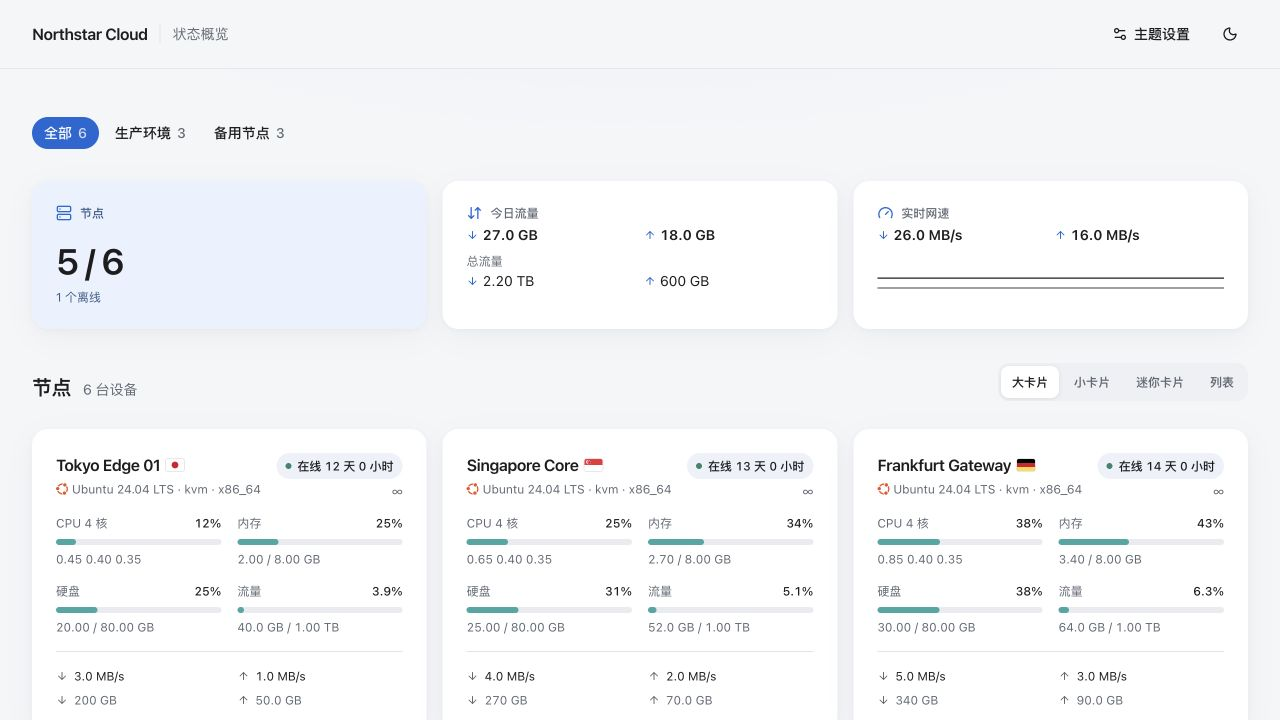
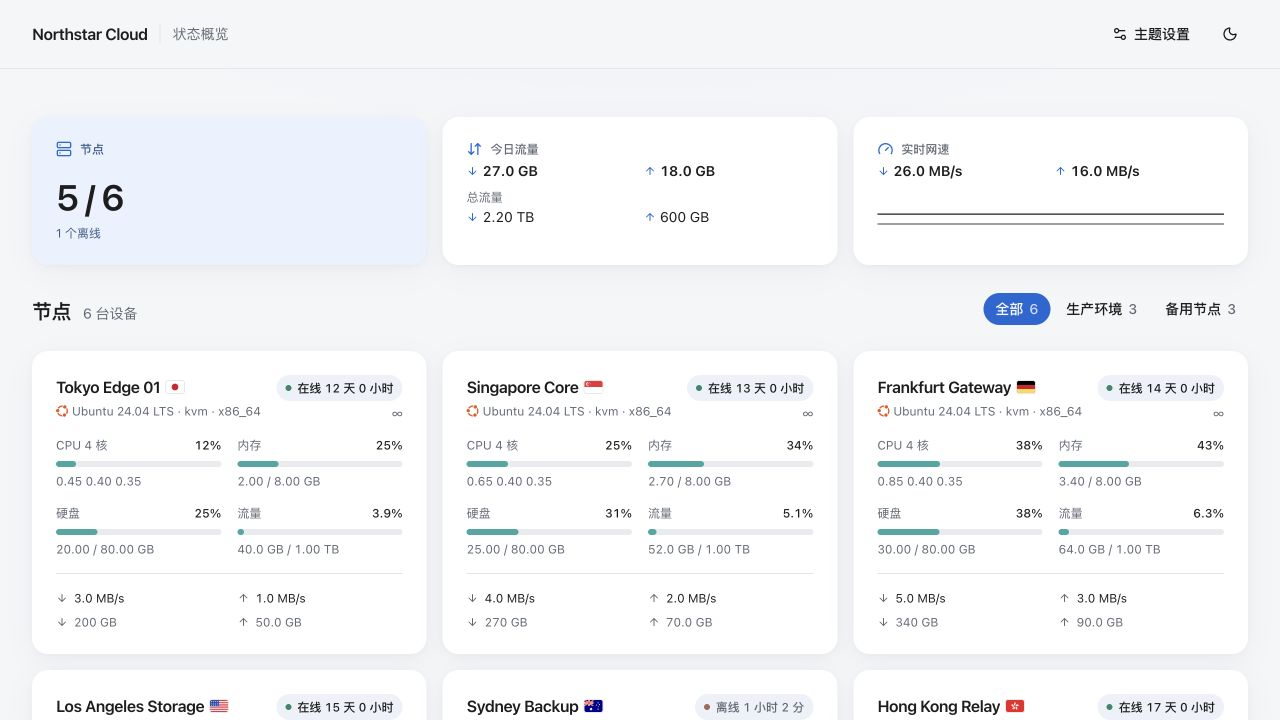
Move node view selection into theme settings

diff --git a/src/App.tsx b/src/App.tsx
@@ -8,16 +8,9 @@ import { ThemeSettings } from "@/components/ThemeSettings"
 import { Button } from "@/components/ui/button"
 import { Skeleton } from "@/components/ui/skeleton"
 import { api, groupsOf, useNodes, type Node } from "@/lib/api"
-import { DEFAULT_CONFIG, isViewMode, loadConfig, type ThemeConfig, type ViewMode } from "@/lib/config"
+import { DEFAULT_CONFIG, loadConfig, type ThemeConfig, type ViewMode } from "@/lib/config"
 
 type Me = { authed: boolean; github: boolean; site_name: string; public_page: boolean }
-const LOCAL_VIEW_KEY = "clarity-node-view"
-const VIEW_OPTIONS: { mode: ViewMode; label: string }[] = [
-  { mode: "large", label: "大卡片" },
-  { mode: "compact", label: "小卡片" },
-  { mode: "mini", label: "迷你卡片" },
-  { mode: "list", label: "列表" },
-]
 
 // Split out because recharts is most of this bundle and the list page draws no
 // chart. The landing page is 242 kB rather than 629 kB (77 kB gzipped against
@@ -97,22 +90,10 @@ export default function App() {
   // The list's group tab, held here so it survives a visit to a node's page.
   const [group, setGroup] = useState<string | null>(null)
   const [siteConfig, setSiteConfig] = useState<ThemeConfig>(DEFAULT_CONFIG)
-  const [localView, setLocalView] = useState<ViewMode | null>(() => {
-    const stored = localStorage.getItem(LOCAL_VIEW_KEY)
-    return isViewMode(stored) ? stored : null
-  })
   const [settingsOpen, setSettingsOpen] = useState(false)
-  const viewMode = localView ?? siteConfig.card_mode
-
-  function changeView(mode: ViewMode) {
-    localStorage.setItem(LOCAL_VIEW_KEY, mode)
-    setLocalView(mode)
-  }
 
   function applySettings(next: ThemeConfig) {
     setSiteConfig(next)
-    localStorage.removeItem(LOCAL_VIEW_KEY)
-    setLocalView(null)
     setSettingsOpen(false)
   }
 
@@ -220,7 +201,7 @@ export default function App() {
             ))}
           </div>
         ) : (
-          <NodeList nodes={sorted} group={group} onGroup={setGroup} onOpen={go} mode={viewMode} onModeChange={changeView} showSummary={siteConfig.show_summary} />
+          <NodeList nodes={sorted} group={group} onGroup={setGroup} onOpen={go} mode={siteConfig.card_mode} showSummary={siteConfig.show_summary} />
         )}
       </main>
       {settingsOpen && me.authed && <ThemeSettings config={siteConfig} onClose={() => setSettingsOpen(false)} onSaved={applySettings} />}
@@ -228,16 +209,14 @@ export default function App() {
   )
 }
 
-// Group tabs appear only once the operator has grouped something, so a hub
-// without groups keeps the page it always had. The summary follows the tab.
-function NodeList({ nodes, group, onGroup, onOpen, mode, onModeChange, showSummary }: {
+// Group tabs sit beside the node heading, while the summary follows the selection.
+function NodeList({ nodes, group, onGroup, onOpen, mode, showSummary }: {
   nodes: Node[]
   /** null is every node, "" the ungrouped. */
   group: string | null
   onGroup: (group: string | null) => void
   onOpen: (id: number) => void
   mode: ViewMode
-  onModeChange: (mode: ViewMode) => void
   showSummary: boolean
 }) {
   const groups = groupsOf(nodes)
@@ -257,52 +236,47 @@ function NodeList({ nodes, group, onGroup, onOpen, mode, onModeChange, showSumma
   ]
   return (
     <>
-      {groups.length > 0 && (
-        <div role="group" aria-label="分组" className="group-tabs -mx-1 flex gap-1 overflow-x-auto px-1 pb-1">
-          {tabs.map(([value, label, count]) => (
-            <Button
-              // Group names are free text, so they carry a prefix no key of
-              // the 全部 tab can share.
-              key={value === null ? "*" : `=${value}`}
-              aria-pressed={current === value}
-              size="sm"
-              variant={current === value ? "secondary" : "ghost"}
-              className="shrink-0"
-              onClick={() => onGroup(value)}
-            >
-              {label}
-              <span className="tnum text-muted-foreground">{count}</span>
-            </Button>
-          ))}
-        </div>
-      )}
       {showSummary && <Summary nodes={shown} group={current} />}
-      <div className="section-heading flex flex-wrap items-end justify-between gap-4">
-        <div className="flex items-baseline gap-3">
-          <h1 className="text-xl font-semibold tracking-tight">节点</h1>
-          <span className="text-sm text-muted-foreground">{shown.length} 台设备</span>
+      <section className="node-section">
+        <div className="section-heading flex flex-wrap items-center justify-between gap-4">
+          <div className="flex items-baseline gap-3">
+            <h1 className="text-xl font-semibold tracking-tight">节点</h1>
+            <span className="text-sm text-muted-foreground">{shown.length} 台设备</span>
+          </div>
+          <div role="group" aria-label="分组" className="group-tabs -mx-1 flex max-w-full gap-1 overflow-x-auto px-1 pb-1">
+            {tabs.map(([value, label, count]) => (
+              <Button
+                // Group names are free text, so they carry a prefix no key of
+                // the 全部 tab can share.
+                key={value === null ? "*" : `=${value}`}
+                aria-pressed={current === value}
+                size="sm"
+                variant={current === value ? "secondary" : "ghost"}
+                className="shrink-0"
+                onClick={() => onGroup(value)}
+              >
+                {label}
+                <span className="tnum text-muted-foreground">{count}</span>
+              </Button>
+            ))}
+          </div>
         </div>
-        <div className="view-switcher flex gap-1 overflow-x-auto" role="group" aria-label="节点视图">
-          {VIEW_OPTIONS.map((option) => (
-            <button key={option.mode} type="button" aria-pressed={mode === option.mode} onClick={() => onModeChange(option.mode)}>{option.label}</button>
-          ))}
-        </div>
-      </div>
-      {nodes.length === 0 ? (
-        <p className="py-16 text-center text-sm text-muted-foreground">还没有节点</p>
-      ) : mode === "list" ? (
-        <NodeRows nodes={shown} onOpen={onOpen} />
-      ) : (
-        <div className={`node-grid grid items-start gap-4 ${mode === "mini" ? "grid-cols-2 lg:grid-cols-4" : "md:grid-cols-2 xl:grid-cols-3"}`}>
-          {shown.map((n) => (
-            mode === "large"
-              ? <NodeCard key={n.id} node={n} onOpen={() => onOpen(n.id)} />
-              : mode === "compact"
-                ? <CompactNodeCard key={n.id} node={n} onOpen={() => onOpen(n.id)} />
-                : <MiniNodeCard key={n.id} node={n} onOpen={() => onOpen(n.id)} />
-          ))}
-        </div>
-      )}
+        {nodes.length === 0 ? (
+          <p className="py-16 text-center text-sm text-muted-foreground">还没有节点</p>
+        ) : mode === "list" ? (
+          <NodeRows nodes={shown} onOpen={onOpen} />
+        ) : (
+          <div className={`node-grid grid items-start gap-4 ${mode === "mini" ? "grid-cols-2 lg:grid-cols-4" : "md:grid-cols-2 xl:grid-cols-3"}`}>
+            {shown.map((n) => (
+              mode === "large"
+                ? <NodeCard key={n.id} node={n} onOpen={() => onOpen(n.id)} />
+                : mode === "compact"
+                  ? <CompactNodeCard key={n.id} node={n} onOpen={() => onOpen(n.id)} />
+                  : <MiniNodeCard key={n.id} node={n} onOpen={() => onOpen(n.id)} />
+            ))}
+          </div>
+        )}
+      </section>
     </>
   )
 }

diff --git a/src/index.css b/src/index.css
@@ -169,21 +169,7 @@
 .group-tabs button { border-radius: 999px; }
 .group-tabs button[aria-pressed=true] { background: var(--primary); color: var(--primary-foreground); }
 .group-tabs button[aria-pressed=true] span { color: inherit; opacity: .78; }
-.section-heading { margin-top: 34px; }
-.view-switcher {
-  max-width: 100%; padding: 3px; border-radius: 11px;
-  background: color-mix(in srgb, var(--muted) 75%, var(--card));
-}
-.view-switcher button {
-  flex: none; padding: 7px 11px; border-radius: 8px;
-  color: var(--muted-foreground); font-size: 12px; font-weight: 600;
-  transition: background-color 160ms ease, color 160ms ease, box-shadow 160ms ease;
-}
-.view-switcher button[aria-pressed="true"] {
-  background: var(--card); color: var(--foreground);
-  box-shadow: 0 1px 4px #1c293a1a;
-}
-.view-switcher button:active { transform: scale(.98); }
+.node-section .node-grid, .node-section .node-table { margin-top: 22px; }
 .node-card {
   min-height: 286px;
   transition: transform 180ms cubic-bezier(.2,.8,.2,1), box-shadow 180ms ease;
@@ -268,8 +254,7 @@
   .summary-tile .tnum.text-3xl { font-size: 1.6rem; }
   .chart-panel { padding: 18px 12px; }
   .summary-grid .summary-tile:last-child .tnum.grid { grid-template-columns: repeat(2, minmax(0, 1fr)); }
-  .section-heading .view-switcher { width: 100%; }
-  .view-switcher button { flex: 1; padding-inline: 8px; }
+  .section-heading .group-tabs { width: 100%; }
   .mini-node-card { padding: 14px; }
   .mini-node-card h3 { font-size: 12px; }
   .settings-options { grid-template-columns: 1fr; }
@@ -288,7 +273,7 @@
   .list-node-value small { display: block; margin-bottom: 3px; color: var(--muted-foreground); font-size: 11px; }
 }
 @media (prefers-reduced-motion: reduce) {
-  .node-card, .compact-node-card, .mini-node-card, .meter-fill, .view-switcher button { transition: none; }
+  .node-card, .compact-node-card, .mini-node-card, .meter-fill { transition: none; }
   .node-card:hover, .node-card:active, .compact-node-card:hover, .compact-node-card:active, .mini-node-card:hover, .mini-node-card:active { transform: none; }
 }
 @media (prefers-reduced-transparency: reduce) {

diff --git a/src/components/ThemeSettings.tsx b/src/components/ThemeSettings.tsx
@@ -44,13 +44,13 @@ export function ThemeSettings({ config, onClose, onSaved }: {
         <div className="flex items-start justify-between gap-5">
           <div>
             <h2 id="theme-settings-title" className="text-xl font-semibold">主题设置</h2>
-            <p className="mt-2 text-sm text-muted-foreground">保存后对所有访客生效；访客仍可临时选择自己的节点视图。</p>
+            <p className="mt-2 text-sm text-muted-foreground">保存后对所有访客生效。</p>
           </div>
           <button type="button" className="settings-close" onClick={onClose} aria-label="关闭主题设置"><X className="size-4" /></button>
         </div>
 
         <fieldset className="mt-7">
-          <legend className="text-sm font-semibold">默认节点视图</legend>
+          <legend className="text-sm font-semibold">节点展示方式</legend>
           <div className="settings-options mt-3 grid grid-cols-2 gap-2">
             {OPTIONS.map(({ mode, label, help }) => (
               <button

diff --git a/src/lib/config.ts b/src/lib/config.ts
@@ -8,10 +8,6 @@ type Field = { key: string; type: string; default: unknown; options?: { value: s
 const fields = (manifest.config as Field[]).filter((field) => field.type !== "title")
 const url = `/api/themes/${manifest.short}/config`
 
-export function isViewMode(value: unknown): value is ViewMode {
-  return VIEW_MODES.some((mode) => mode === value)
-}
-
 function isRecord(value: unknown): value is Record<string, unknown> {
   return typeof value === "object" && value !== null && !Array.isArray(value)
 }

diff --git a/README.md b/README.md
@@ -8,7 +8,7 @@
 
 - 大卡片、小卡片、迷你卡片、列表四种视图
 - 节点分组、详情、历史图表和实时数据
-- 管理员可设置默认视图和顶部概览；访客可自行切换视图
+- 管理员可设置节点展示方式和顶部概览；访客可按分组浏览节点
 - 不覆盖站点原有 favicon
 
 ## 安装
@@ -16,7 +16,7 @@
 1. 下载最新的 [theme.tar.gz](https://github.com/kure29/Monitor-Theme-Clarity/releases/latest/download/theme.tar.gz)。
 2. 在 monitor 后台的「主题」页面上传并启用 **Clarity**。
 
-管理员登录后，可在公开状态页右上角打开「主题设置」。此功能需要支持主题配置接口的 monitor 版本；旧版仍可使用默认界面和访客视图切换。
+管理员登录后，可在公开状态页右上角打开「主题设置」。此功能需要支持主题配置接口的 monitor 版本；旧版仍可使用默认界面。
 
 ## 本地开发
 
